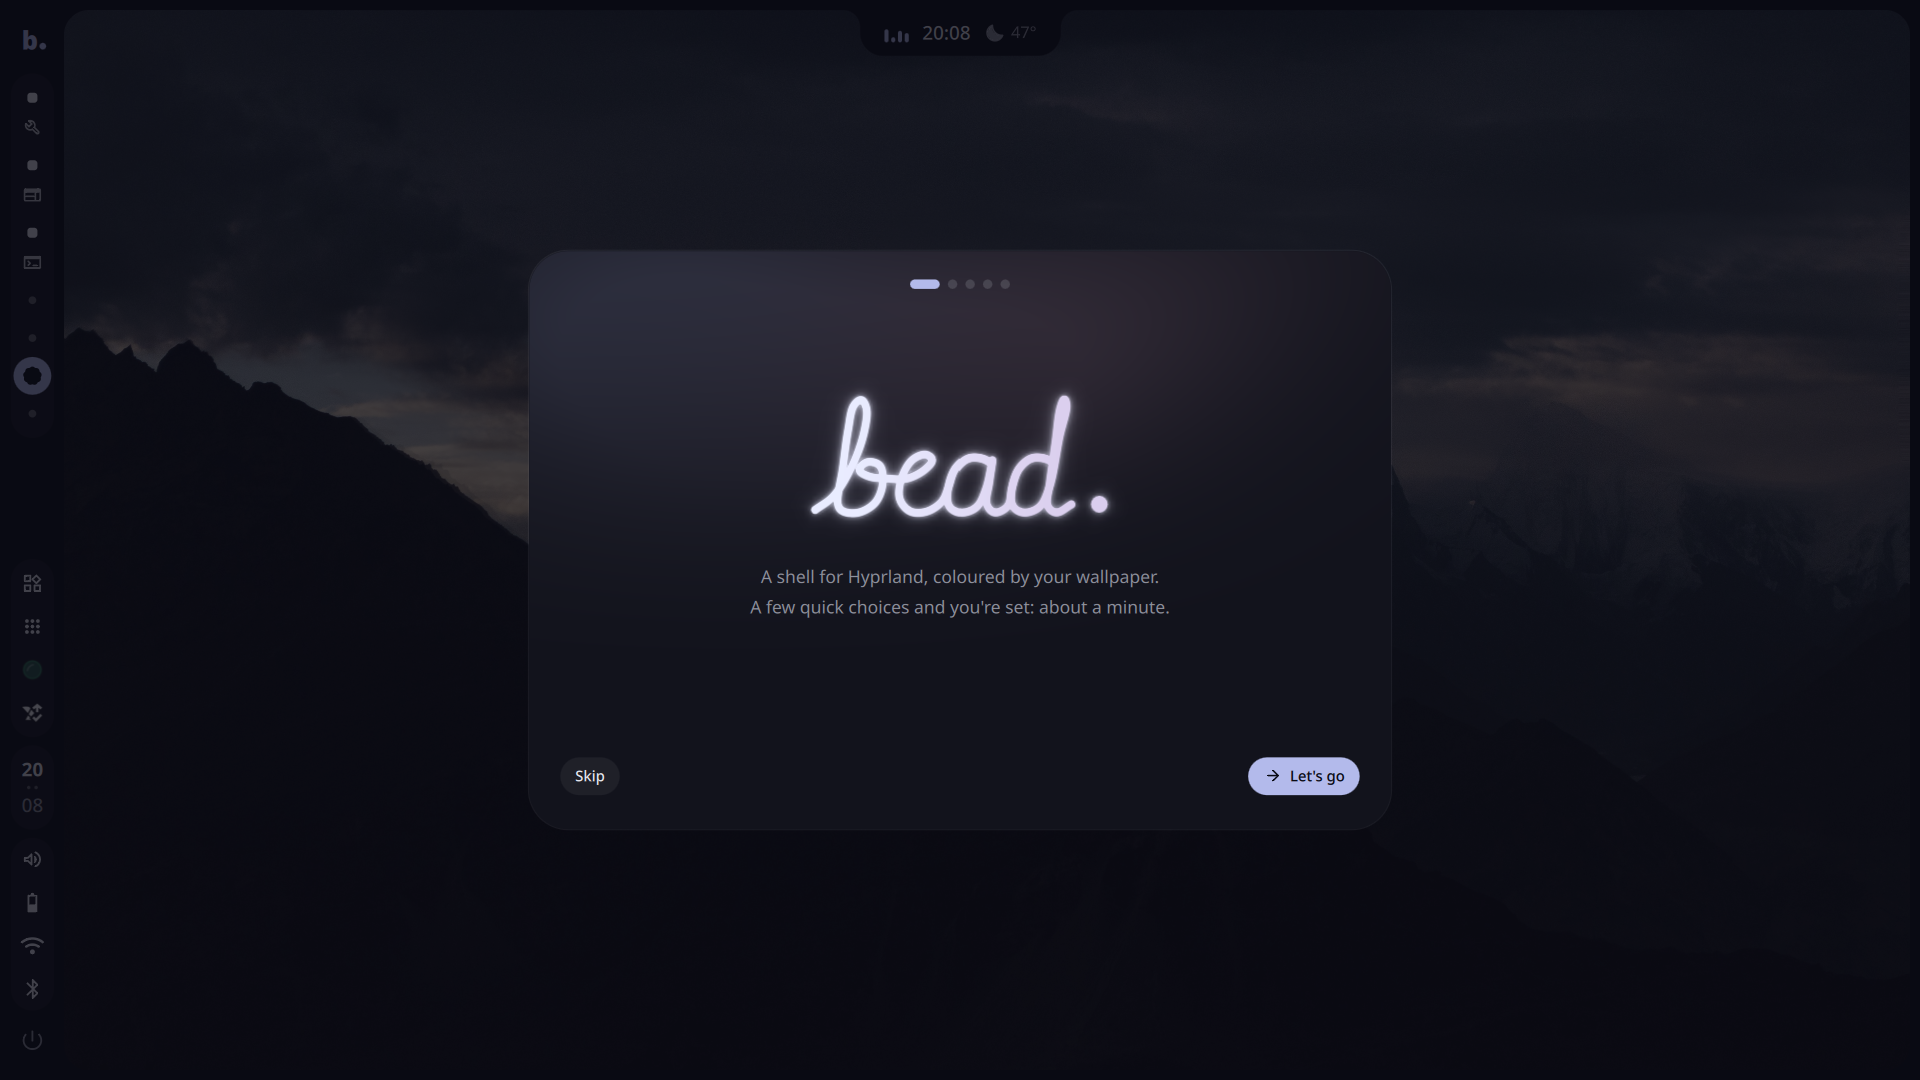
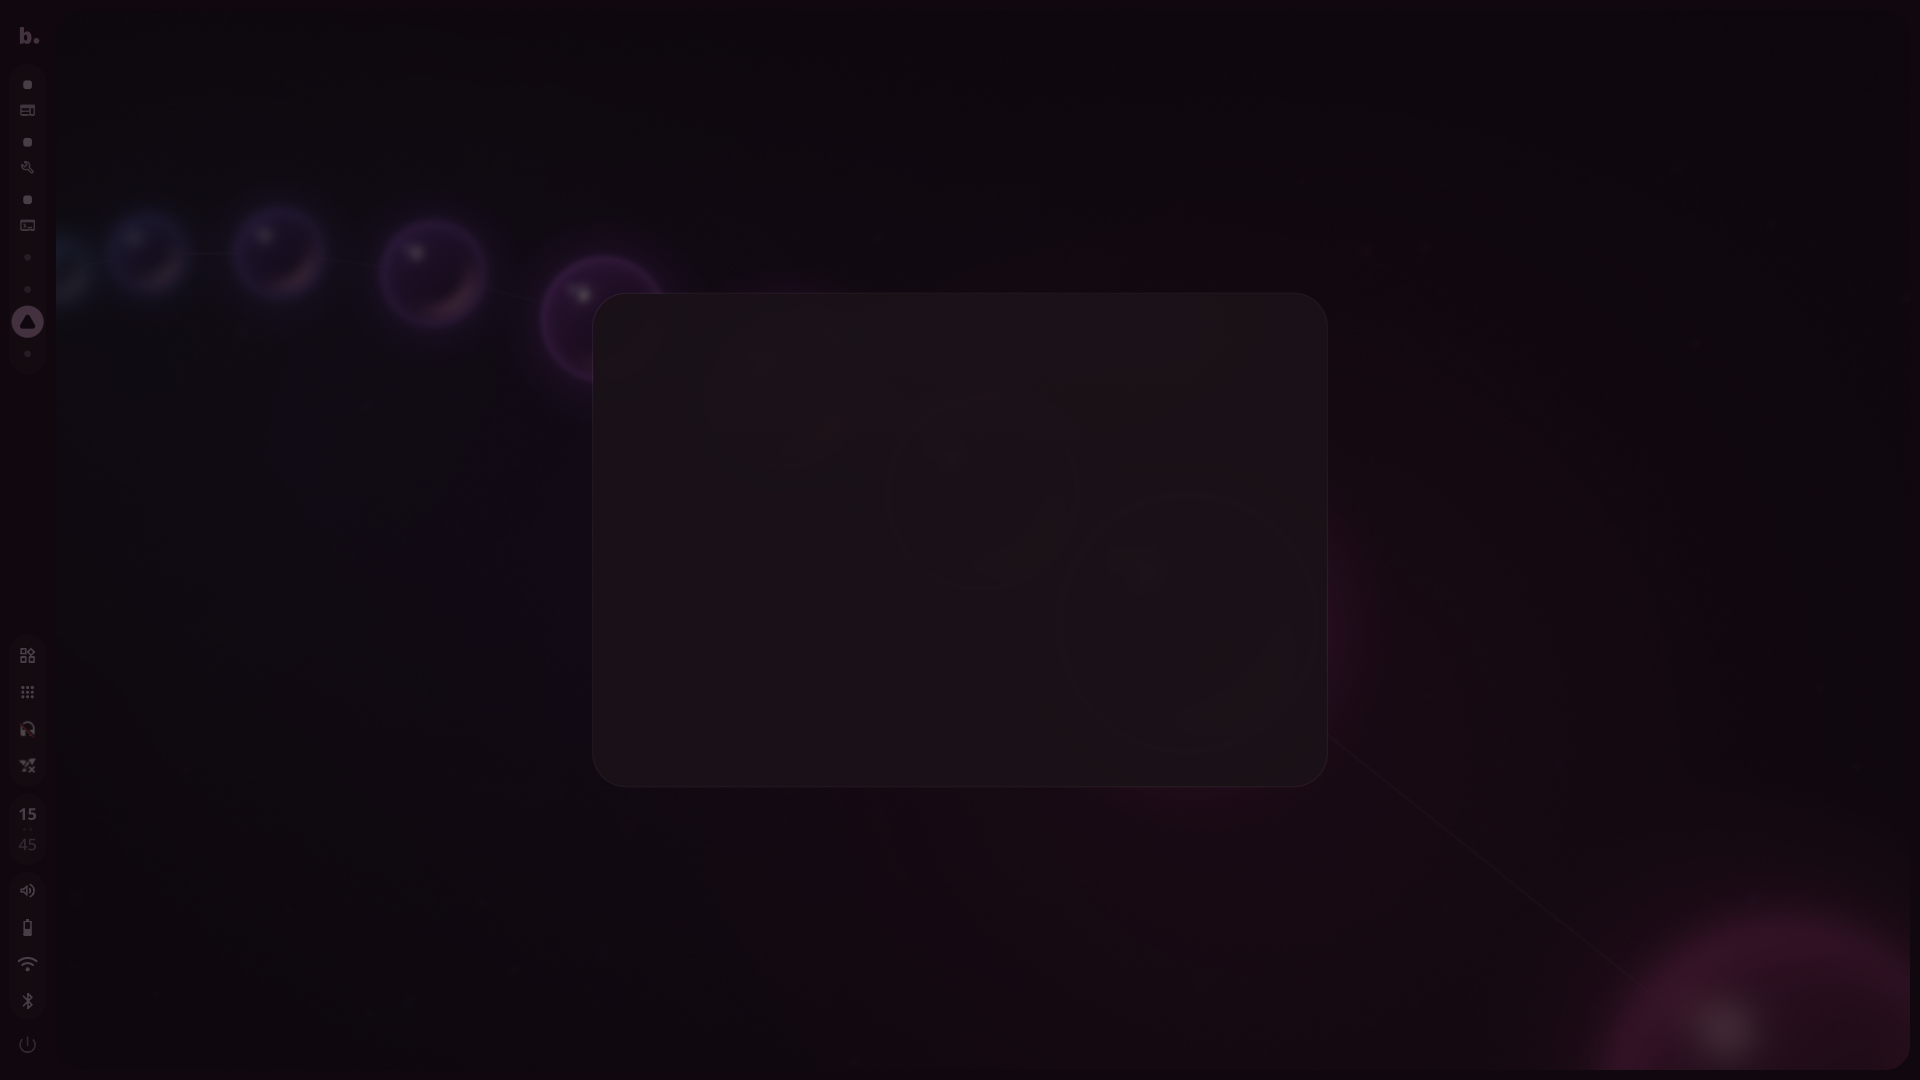
docs: changelog, README and screenshots for the new pieces
tools/screenshots.sh and clip.sh skip workspaces another monitor shows.

diff --git a/README.md b/README.md
@@ -8,7 +8,7 @@ A desktop shell for [Hyprland](https://hyprland.org), built with
 a bar, an island at the top of the screen that grows into a launcher, a
 dashboard, a lock screen and notifications, all coloured by your wallpaper.
 
-![bead's welcome: "bead." written by hand over a soft gradient](docs/screenshots/welcome.webp)
+![bead's welcome card, the first thing a new install shows](docs/screenshots/welcome.webp)
 
 | | |
 |---|---|
@@ -23,7 +23,7 @@ Hyprland 0.57 or newer (the Lua config).
 
 ```sh
 git clone https://github.com/HamzaQaz/bead && cd bead
-./install.sh            # or ./install.sh --dry-run to look around first
+./install.sh            # a window in a graphical session; --tui for the terminal, --dry-run to look around
 ```
 
 Or from the AUR, then `bead-setup` once for your keybinds and the optional parts:
@@ -32,15 +32,18 @@ Or from the AUR, then `bead-setup` once for your keybinds and the optional parts
 paru -S bead-shell-git && bead-setup
 ```
 
-`install.sh` builds **strand**, a small installer (Go, Bubble Tea), and runs it.
-strand checks what you have, lets you choose the optional parts, shows the
+In a graphical session `install.sh` installs Quickshell first, then opens
+bead's installer as a window: welcome, choose the parts, review, your
+password once (handed to sudo, never saved), then live progress. Underneath,
+and in a terminal (`--tui`, over SSH, `--yes`), it's **strand**, a small
+installer (Go, Bubble Tea). strand checks what you have, lets you choose the optional parts, shows the
 whole plan (packages, downloads, files it will touch), and only then
 installs. Packages come from pacman, and from the AUR through `paru` or `yay`.
 Any file strand edits gets backed up first (`*.bak-strand-<time>`).
 
 Then start it with `bead start`, or log out and back in. If something
 doesn't work, `bead doctor` lists what's missing and how to fix it (the same
-check is in Settings → System).
+check is in Settings → About bead).
 
 ### Keeping it up to date, or taking it off
 
@@ -129,8 +132,8 @@ bead voice list | run NAME | edit   # your voice commands
 ```
 
 - Wallpapers live in `~/Pictures/Wallpapers`. Pick one from the dashboard.
-- Settings live in the dashboard's Settings tab. They're saved to `~/.config/bead/settings.json`.
-- `BEAD_SCALE` sets the UI scale (Settings → Looks → Size otherwise).
+- Settings have their own window: the launcher ("settings"), the dashboard, or `bead settings [page]`. They're saved to `~/.config/bead/settings.json`.
+- `BEAD_SCALE` sets the UI scale (Settings → Appearance → Size otherwise).
 
 ## Layout
 

diff --git a/CHANGELOG.md b/CHANGELOG.md
@@ -3,6 +3,19 @@
 bead follows [Semantic Versioning](https://semver.org). Each release's
 section is what `bead update` shows as "what's new".
 
+## Unreleased
+
+- Settings is a window of its own, like a desktop's settings app: Wi-Fi,
+  Bluetooth, Sound, Displays, Wallpaper, Appearance, Notifications, Night
+  light, Power & idle, Assistant, Keyboard shortcuts, Updates and About, with
+  a search across all of them. Open it from the launcher, the dashboard, or
+  `bead settings [page]`.
+- A graphical installer: `./install.sh` opens a window in a graphical session
+  (the terminal installer is still there with `--tui`).
+- The album cover fills the background of the media tab, the dashboard's
+  player and the island's media card; the weather's sky spans the whole tab.
+- New wallpapers: glossy ribbons of colour with a glass bead among them.
+
 ## 0.1.0
 
 The first release: a whole desktop shell for Hyprland, built with Quickshell.
